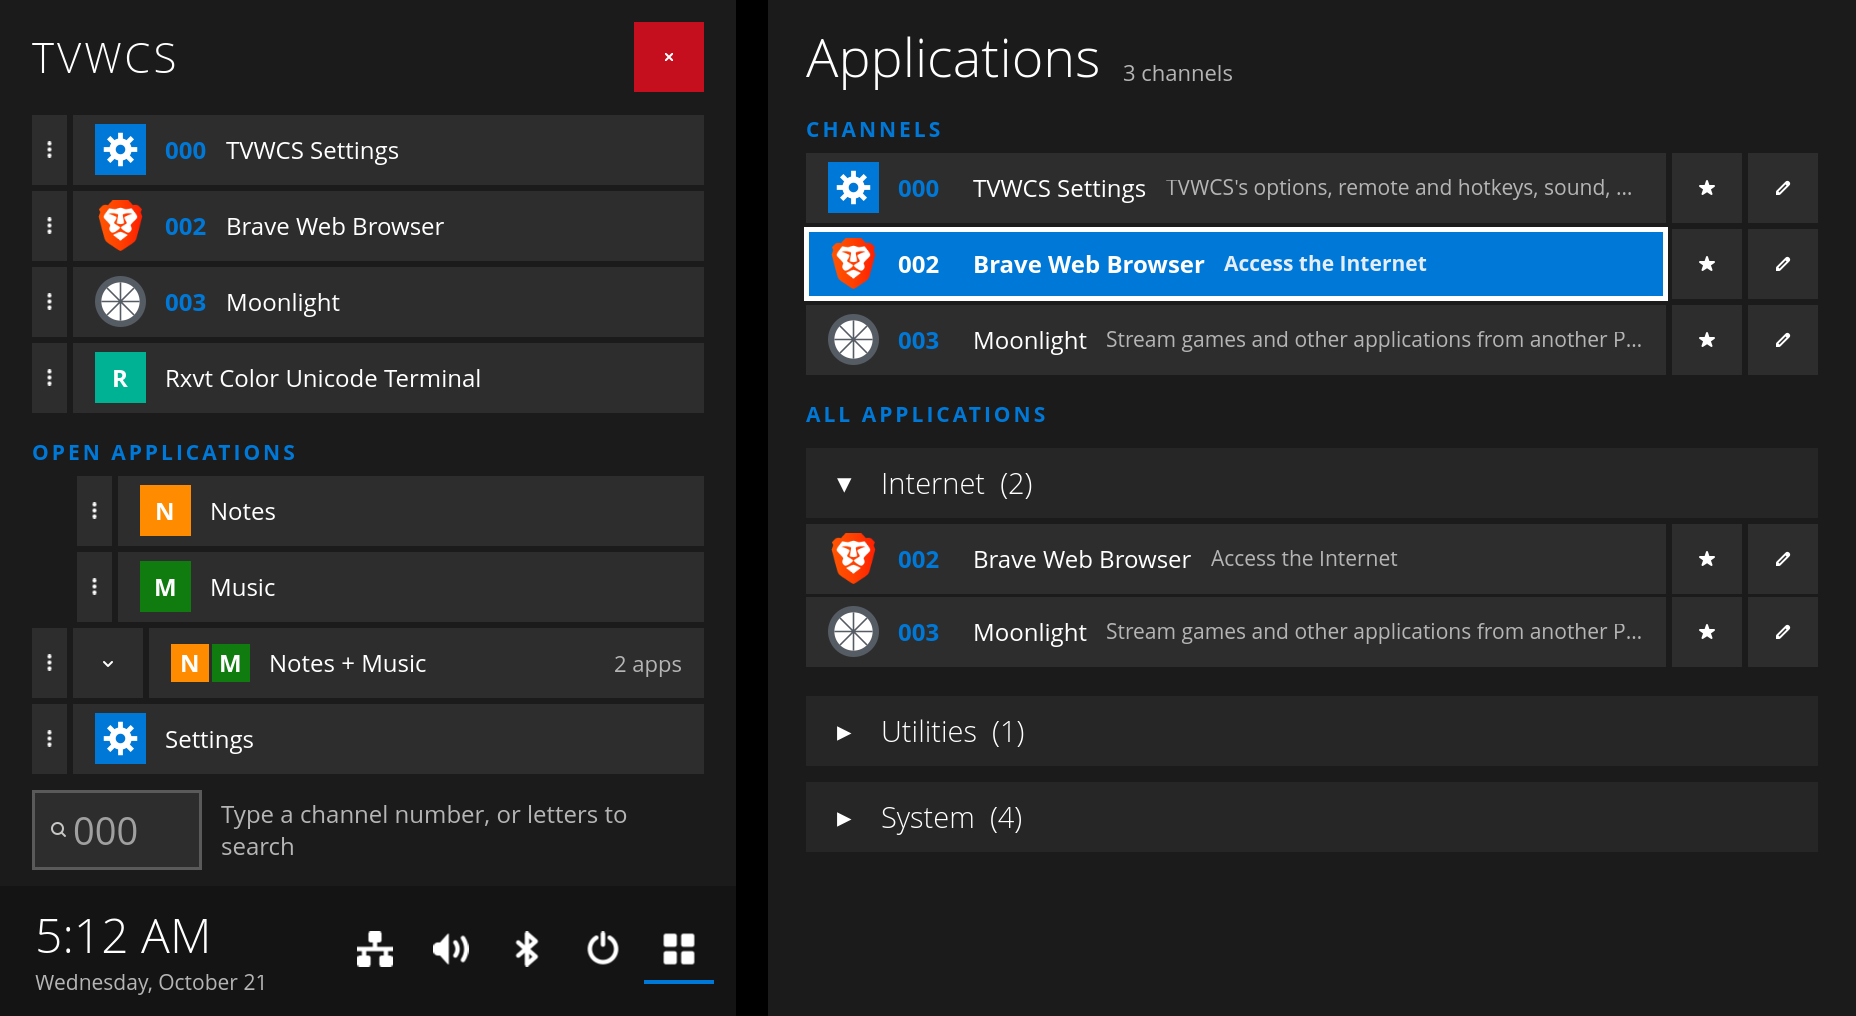
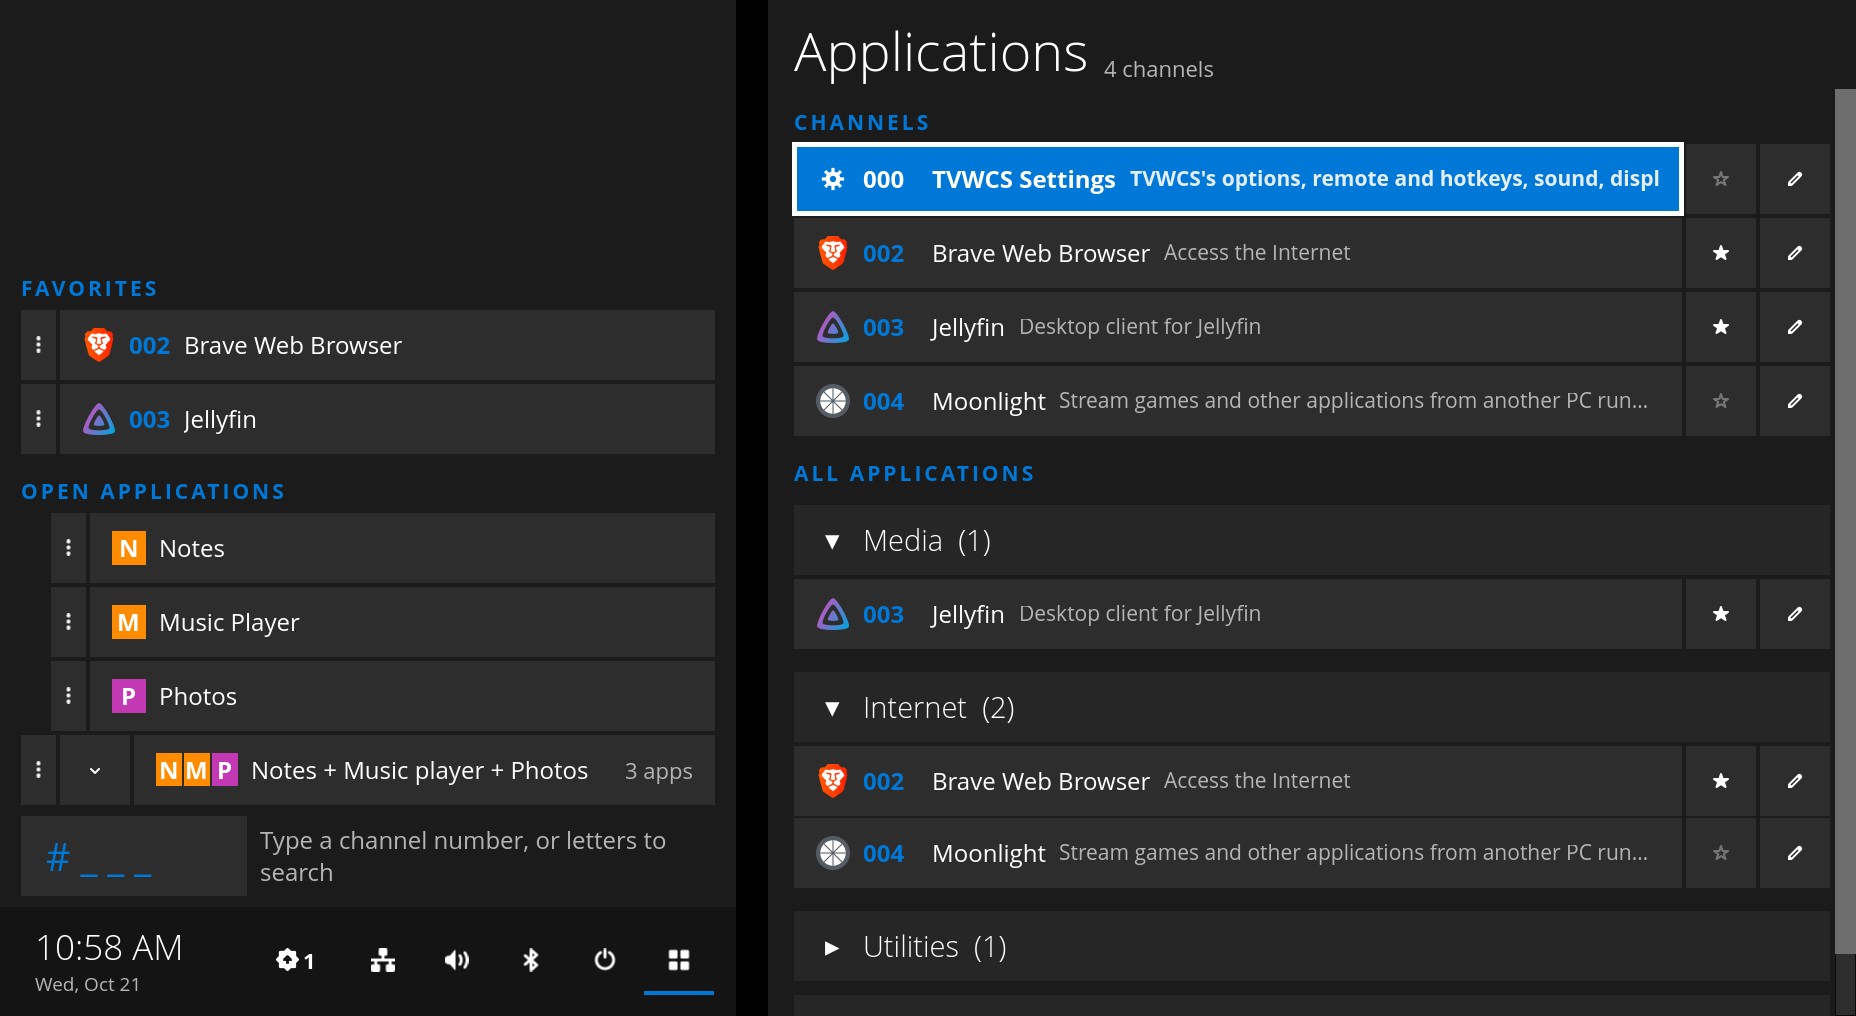
4.0.1: login screen look after a 3.x upgrade, volume bar above 100 %, README screenshots
Claude-Session: https://claude.ai/code/session_01TNEPxT9YxQZTKiRufo4ory

diff --git a/package/tvwcs/loginscreen.py b/package/tvwcs/loginscreen.py
@@ -140,7 +140,8 @@ def look_from(settings) -> dict:
     """The login screen's look, from TVWCS's settings (or the look file)."""
     accent=settings.get("accent"); accent=accent if isinstance(accent,str) and re.fullmatch(r"#[0-9a-fA-F]{6}",accent) else "#0078d7"
     theme=settings.get("theme") if settings.get("theme") in ("dark","light") else "dark"
-    scale=settings.get("scale") if settings.get("scale") in ("desktop","tenfoot","tenfoot_4k") else "desktop"
+    # "" (Automatic) is TV size: the login screen starts TVWCS's sessions, which are TV mode
+    scale=settings.get("scale") if settings.get("scale") in ("desktop","tenfoot","tenfoot_4k") else "tenfoot"
     return {"accent":accent.lower(),"theme":theme,"scale":scale}
 
 def status(version="", settings=None) -> dict:
@@ -547,8 +548,12 @@ def _version(source):
     return ""
 
 def _settings(config_file):
-    try: return (json.loads(Path(config_file).read_text(encoding="utf-8")).get("settings") or {}) if config_file else {}
-    except (OSError,ValueError,AttributeError): return {}
+    """A config.json's settings, read the way TVWCS reads them (so a setting from an older version, migrated when TVWCS
+    starts, gives the same look as Settings later compares against)."""
+    from tvwcs.model import _clean_settings
+    try: raw=(json.loads(Path(config_file).read_text(encoding="utf-8")).get("settings") or {}) if config_file else {}
+    except (OSError,ValueError,AttributeError): raw={}
+    return _clean_settings(raw)
 
 USAGE="""Usage (as root): python3 -m tvwcs.loginscreen <command>
   enable [--config FILE] [--autologin USER SESSION] [--previous UNIT] [--session USER SESSION]

diff --git a/package/tests/test_loginscreen.py b/package/tests/test_loginscreen.py
@@ -89,6 +89,17 @@ class RootTests(unittest.TestCase):
         self.assertFalse(loginscreen.greetd_is_ours())
         self.assertIn(["systemctl","enable","--force","lightdm.service"],self.c.calls)
 
+    def test_a_3x_config_gives_the_look_settings_compares_with(self):
+        # 3.x saved "use": "tv" with "scale": "tenfoot"; TVWCS 4.0 reads that as Automatic (""), which is TV size here
+        import tempfile
+        with tempfile.NamedTemporaryFile("w",suffix=".json",delete=False) as f:
+            json.dump({"settings":{"use":"tv","scale":"tenfoot","accent":"#E81123"}},f)
+        try: raw=loginscreen._settings(f.name)
+        finally: os.unlink(f.name)
+        self.assertEqual(raw["scale"],"")
+        self.assertEqual(loginscreen.look_from(raw),loginscreen.look_from({"scale":"tenfoot","accent":"#e81123"}))
+        self.assertEqual(loginscreen.look_from({})["scale"],"tenfoot")
+
     def test_another_greeters_config_is_kept_and_put_back(self):
         self.use("greetd"); (self.etc/"greetd").mkdir(); conf=self.etc/"greetd"/"config.toml"
         conf.write_text('[default_session]\ncommand = "tuigreet"\nuser = "greeter"\n')

diff --git a/package/tvwcs/ui_control_pages.py b/package/tvwcs/ui_control_pages.py
@@ -647,7 +647,8 @@ class SoundPage(Page):
         minus=self.button("list-remove-symbolic","−","Quieter",lambda:step(-1)); plus=self.button("list-add-symbolic","+","Louder",lambda:step(1))
         mute=Gtk.Button()
         boost=bool(ConfigStore().settings["audio_boost"])
-        scale=Gtk.Scale.new_with_range(Gtk.Orientation.HORIZONTAL,0,sound.top(boost),1); scale.set_draw_value(False); scale.set_hexpand(True)
+        # a volume already above the top (set elsewhere) widens the bar, so it still shows where the volume is
+        scale=Gtk.Scale.new_with_range(Gtk.Orientation.HORIZONTAL,0,max(sound.top(boost),d.volume),1); scale.set_draw_value(False); scale.set_hexpand(True)
         scale.set_focusable(False); scale.set_valign(Gtk.Align.CENTER)
         value=Gtk.Label(); value.add_css_class("volume-value"); value.set_xalign(1)
         guard=[False]; pending=[0]

diff --git a/CHANGELOG.md b/CHANGELOG.md
@@ -1,5 +1,12 @@
 # Changelog
 
+## 4.0.1 — 2026-10-21
+
+- Settings > User no longer says the login screen "needs updating" right after an upgrade from 3.x. The installer and Settings now read the interface size the same way, and Automatic gives the login screen its TV size.
+- Settings > Sound: a volume already above the top (such as 160 %, set by another program) is shown where it is on the bar, instead of the bar sitting at its end.
+- After moving auto-login to TVWCS's session, the installer names that session instead of telling you to pick the sway one.
+- New screenshots in the README.
+
 ## 4.0.0 — 2026-10-21
 
 **Two modes**
